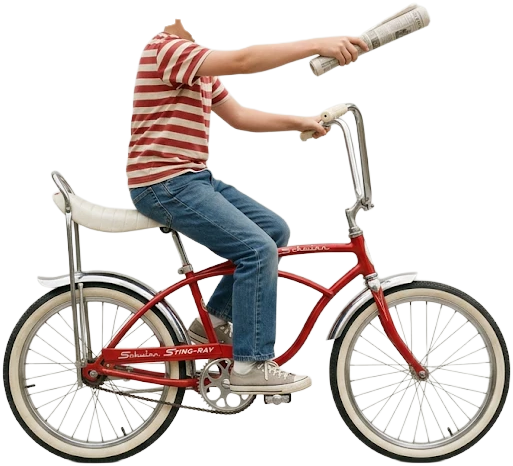
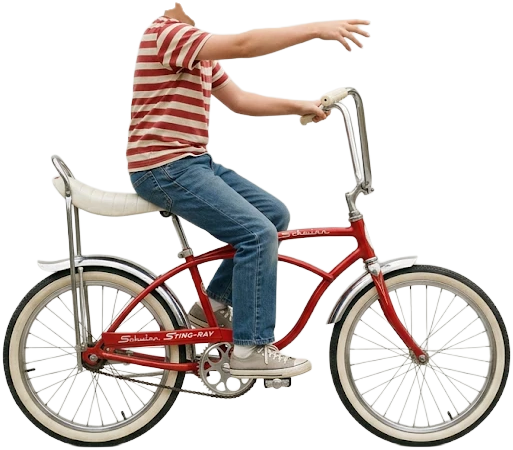
Put Bill on the level cards; add photo mailboxes and an empty-hand throw
- Level select cards now show Bill assembled the way the game builds
  him: his head on the paperboy, and leaning out of the Bug
- Mailboxes are photo cutouts on wooden posts, silver and red, each with
  a waiting state and a delivered state (door open, paper in, flag up).
  The photo's short posts are stretched along the grain to stand the box
  at throwing height
- The throwing frame is the new one with his hand open and empty, so the
  paper in the air is the only one
- Prompt sheet: level 1's images are complete

Claude-Session: https://claude.ai/code/session_019b7mfLR7ticr216Qk7ssWT

Changed region(s): [[0.0, 0.0, 0.9981, 0.9956]]

diff --git a/src/scenes/LevelSelectScene.ts b/src/scenes/LevelSelectScene.ts
@@ -1,9 +1,10 @@
 import Phaser from 'phaser';
-import { H, INK, MAX_W, TEX, view } from '../config';
+import { H, HEAD_SRC_H, INK, MAX_W, TEX, view } from '../config';
 import { ART, Ctx, img } from '../art/sticker';
 import { cutText, fillPaper, glued, makePaperArt, tapePath, textWidth } from '../art/paper';
 import { sound } from '../audio/sound';
-import { LEVELS, LevelDef } from '../data/levels';
+import { LEVELS, LevelDef, Theme } from '../data/levels';
+import { RIGS } from '../objects/Bill';
 import { loadStars } from '../data/progress';
 import { MARKER, written } from '../ui/text';
 
@@ -88,6 +89,32 @@ export class LevelSelectScene extends Phaser.Scene {
     c.drawImage(src, x - w / 2, bottom - h, w, h);
   }
 
+  /** Draw a piece of art on a card with its anchor at (x, y), at `k` card pixels per game pixel. */
+  private place(c: Ctx, key: string, x: number, y: number, k: number): void {
+    if (!this.textures.exists(key)) return;
+    const a = ART[key];
+    const src = this.textures.get(key).getSourceImage() as HTMLCanvasElement;
+    c.drawImage(src, x - (a.pad + a.ax) * k, y - (a.pad + a.ay) * k, (a.w + a.pad * 2) * k, (a.h + a.pad * 2) * k);
+  }
+
+  /** Bill, put together the way the game does it: his body frame, his head on
+   *  its neck, and his ride in front. (x, groundY) is where his wheels touch the road. */
+  private placeBill(c: Ctx, theme: Theme, face: string, x: number, groundY: number, k: number): void {
+    const rig = RIGS[theme];
+    const ground = rig.ride?.baseY ?? rig.at[1];
+    const X = (dx: number) => x + dx * k;
+    const Y = (dy: number) => groundY + (dy - ground) * k;
+    this.place(c, rig.frames.rest, X(rig.at[0]), Y(rig.at[1]), k);
+    if (this.textures.exists(face)) {
+      const src = this.textures.get(face).getSourceImage() as HTMLCanvasElement;
+      const s = (rig.headH / HEAD_SRC_H) * k;
+      const cx = X(rig.at[0] + rig.chin.rest[0]);
+      const cy = Y(rig.at[1] + rig.chin.rest[1]) - rig.headH * 0.415 * k;
+      c.drawImage(src, cx - (src.width * s) / 2, cy - (src.height * s) / 2, src.width * s, src.height * s);
+    }
+    if (rig.ride) this.place(c, rig.ride.key, X(0), Y(rig.ride.baseY), k);
+  }
+
   private buildCard(level: LevelDef): void {
     makePaperArt(this, `card_${level.id}`, CARD_W, CARD_H, (c) => {
       // a snapshot: a white print with a picture and a caption
@@ -118,9 +145,9 @@ export class LevelSelectScene extends Phaser.Scene {
           for (let x = px; x < px + pw; x += fw) c.drawImage(src, x, road - fh, fw, fh);
         }
         c.beginPath(); c.rect(px, road, pw, ph); fillPaper(c, 'grey');
-        this.stamp(c, 'mailbox0', px + 52, road - 2, 40);
-        this.stamp(c, 'mailbox1', px + 224, road - 2, 40);
-        this.stamp(c, 'kid_rest', px + 136, py + ph + 2, 150);
+        this.place(c, 'mailbox0_hit', px + 44, road + 3, 0.7);
+        this.place(c, 'mailbox1', px + 232, road + 3, 0.7);
+        this.placeBill(c, 'street', 'bill-grin', px + 140, py + ph - 3, 0.52);
       } else {
         if (this.textures.exists('postcard')) {
           const src = this.textures.get('postcard').getSourceImage() as HTMLCanvasElement;
@@ -129,7 +156,7 @@ export class LevelSelectScene extends Phaser.Scene {
         c.beginPath(); c.rect(px, py + 122, pw, ph); fillPaper(c, 'grey');
         this.stamp(c, 'sedan_red', px + 182, py + 150, 150);
         this.stamp(c, 'head1', px + 150, py + 128, 44);
-        this.stamp(c, 'bug', px + 96, py + ph + 4, 136);
+        this.placeBill(c, 'highway', 'bill-sideeye', px + 92, py + ph - 1, 0.47);
       }
       c.restore();
 

diff --git a/src/art/photos.ts b/src/art/photos.ts
@@ -61,6 +61,8 @@ const HEADS: HeadFit[] = [
 /** Bill's body is drawn small under his big photo head (design pixels per image pixel). */
 const BODY_SCALE = 0.58;
 const KID_SCALE = 0.5;
+/** Puts the middle of a mailbox 68 pixels above the kerb (MAILBOX_UP in NoodleNeck.ts). */
+const MAILBOX_SCALE = 0.352;
 
 const WORDS = ['bonk', 'whack', 'thwack', 'pow', 'bop', 'perfect'];
 
@@ -82,10 +84,16 @@ const PIECES: Piece[] = [
   // are pinned on the ground under it (anchors from tools/make_cutouts.py).
   { key: 'kid_rest', file: 'kid-rest.png', scale: KID_SCALE, anchor: [0.499, 0.993] },
   { key: 'kid_windup', file: 'kid-windup.png', scale: KID_SCALE, anchor: [0.499, 0.994] },
-  { key: 'kid_swing', file: 'kid-swing.png', scale: KID_SCALE, anchor: [0.499, 0.994] },
+  { key: 'kid_swing', file: 'kid-swing.png', scale: KID_SCALE, anchor: [0.499, 0.993] },
   { key: 'kid_duck', file: 'kid-duck.png', scale: KID_SCALE, anchor: [0.499, 0.993] },
   { key: 'paper_roll', file: 'paper-roll.png', w: 30, border: 1.4 },
-  // the street: the mailman (standing on the same spot in both photos) and the tree to duck
+  // the street: mailboxes on posts, waiting and with a paper delivered, each
+  // pinned where its post meets the ground (anchors from tools/make_cutouts.py)
+  { key: 'mailbox0', file: 'mailbox-silver.png', scale: MAILBOX_SCALE, border: 2, anchor: [0.519, 0.972] },
+  { key: 'mailbox0_hit', file: 'mailbox-silver-hit.png', scale: MAILBOX_SCALE, border: 2, anchor: [0.603, 0.973] },
+  { key: 'mailbox1', file: 'mailbox-red.png', scale: MAILBOX_SCALE, border: 2, anchor: [0.516, 0.968] },
+  { key: 'mailbox1_hit', file: 'mailbox-red-hit.png', scale: MAILBOX_SCALE, border: 2, anchor: [0.601, 0.97] },
+  // the mailman (standing on the same spot in both photos) and the tree to duck
   { key: 'mailman', file: 'mailman.png', h: 138, border: 2, anchor: [0.557, 0.985] },
   { key: 'mailman_mad', file: 'mailman-mad.png', h: 136, border: 2, anchor: [0.49, 0.985] },
   { key: 'branch', file: 'tree.png', h: 264, border: 2, anchor: [0.497, 0.985] },

diff --git a/src/scenes/GameScene.ts b/src/scenes/GameScene.ts
@@ -530,7 +530,7 @@ export class GameScene extends Phaser.Scene {
 
   /** The open end of a mailbox, where the paper goes in. */
   private doorOf(neck: NoodleNeck): Point {
-    return { x: neck.headX - 16, y: neck.headY };
+    return { x: neck.headX - 22, y: neck.headY };
   }
 
   /** Bill lets go of a paper. Whatever is in the ring gets it: a mailbox, or

diff --git a/src/objects/Bill.ts b/src/objects/Bill.ts
@@ -80,7 +80,7 @@ export const RIGS: Record<Theme, BillRig> = {
     duckHeadTilt: 0.5,
     duckDepth: 0,
     sweetDX: 230,
-    hand: [74, -216],
+    hand: [56, -208],
     dust: [-128, STREET.bikeBase - 4],
   },
 };

diff --git a/tools/make_cutouts.py b/tools/make_cutouts.py
@@ -292,7 +292,7 @@ def kid():
     frame's ground anchor (as a fraction of the saved image) and where the
     chin was, in source pixels from that anchor."""
     ground = (512, 548)
-    for name, src in (("rest", "T1-kid-rest"), ("windup", "T2-kid-windup"), ("swing", "T3-kid-swing"), ("duck", "T4-kid-duck")):
+    for name, src in (("rest", "T1-kid-rest"), ("windup", "T2-kid-windup"), ("swing", "T3b-kid-throw"), ("duck", "T4-kid-duck")):
         cut = load(f"{src}-cutout.png")
         m = load(f"{src}-headmask.png")
         head = ((m[..., 3] if m[..., 3].std() > 0.01 else m[..., :3].mean(axis=2)) > 0.5).astype(np.uint8)
@@ -312,8 +312,8 @@ def kid():
         print(f"  kid-{name}: anchor ({(ground[0] - x0) / (x1 - x0):.3f}, {(ground[1] - y0) / (y1 - y0):.3f}),"
               f" chin {chin[0] - ground[0]:+.0f}, {chin[1] - ground[1]:+.0f} px from it")
 
-    # A rolled-up newspaper to throw: the free end of the one in his outstretched
-    # hand, turned level and mirrored to make a whole roll.
+    # A rolled-up newspaper to throw: the free end of the one he holds out in the
+    # first version of the throwing frame, turned level and mirrored to make a whole roll.
     cut = load("T3-kid-swing-cutout.png")
     piece = cut[78:140, 596:682]
     h, w = piece.shape[:2]
@@ -392,6 +392,26 @@ def concrete():
     path = os.path.join(OUT, "concrete.jpg")
     Image.fromarray((np.clip(rgb, 0, 1) * 255).astype(np.uint8), "RGB").save(path, quality=88)
     print("concrete.jpg", (rgb.shape[1], rgb.shape[0]), os.path.getsize(path), "bytes")
+
+
+def mailboxes():
+    """Mailboxes on posts: silver and red, each waiting and with a paper
+    delivered. The posts in the photo are short, so the bottom of each is
+    stretched (along the grain) to stand the box at throwing height. Prints
+    where each post meets the ground, and how high the box sits above it."""
+    sheet = sorted(pieces(load("U-mailboxes-strip-cutout.png"), 3000), key=lambda p: p[0])
+    for name, (_, _, piece) in zip(("silver", "silver-hit", "red", "red-hit"), sheet):
+        post = cv2.resize(piece[-38:], (piece.shape[1], 110), interpolation=cv2.INTER_LINEAR)
+        tall = np.concatenate([piece[:-38], post], axis=0)
+        save(f"mailbox-{name}.png", tall)
+        solid = tall[..., 3] > 0.5
+        base_y = np.where(solid.any(axis=1))[0].max() + 1
+        base = np.where(solid[base_y - 12:base_y].any(axis=0))[0]
+        line = f"  mailbox-{name}: post base at ({(base.min() + base.max()) / 2 / tall.shape[1]:.3f}, {base_y / tall.shape[0]:.3f})"
+        if not name.endswith("hit"):
+            box = np.where(solid.sum(axis=1) > 100)[0]
+            line += f", box centre {base_y - (box.min() + box.max()) / 2:.0f}px above it, box {solid.sum(axis=1).max()}px wide"
+        print(line)
 
 
 def asphalt():
@@ -538,6 +558,7 @@ if __name__ == "__main__":
     bill()
     kid()
     mailman()
+    mailboxes()
     tree()
     fence()
     houses()

diff --git a/docs/art-prompts.md b/docs/art-prompts.md
@@ -31,32 +31,16 @@ these images. The tarmac is a public-domain photo texture (`art-src/library`).
 ## Level 1, Paper Route
 
 Bill the paperboy rides his Stingray down a 1950s street tossing papers into
-mailboxes. In the game: T1 to T4 (the boy on the bike: riding, winding up,
-throwing, ducking; the flying newspaper is cut from T3), V (the mailman),
-W (the tree), X (the houses) and Y (the picket fence). The pavement is the
-public-domain tarmac photo, bleached to concrete.
+mailboxes. Every image for this level is in the game: T1, T2, T3b and T4 (the
+boy on the bike: riding, winding up, throwing with an empty hand, ducking),
+U (mailboxes on posts, waiting and delivered), V (the mailman), W (the tree),
+X (the houses) and Y (the picket fence). The flying newspaper is cut from T3,
+the first version of the throwing frame. The pavement is the public-domain
+tarmac photo, bleached to concrete.
 
-Still to come, replacing the last cut-paper stand-ins:
-
-### U. Mailboxes on posts
-
-```text
-Four separate photographs in a row with clear gaps between them, on a plain flat light-grey background. Each is a classic American curbside mailbox mounted on a short square wooden post, seen in exact side view with its door end on the left. The whole post is in frame down to its base.
-1. A galvanized silver mailbox, door shut, red flag down.
-2. The same silver mailbox with its door open and a rolled-up newspaper sticking out of it, red flag up.
-3. A red painted mailbox, door shut, yellow flag down.
-4. The same red mailbox with its door open and a rolled-up newspaper sticking out of it, yellow flag up.
-All four the same size, with identical posts. Soft even daylight, slightly faded 1950s Kodachrome colour. No text or numbers on the mailboxes, no ground, no shadows, no borders. Wide 16:9 image.
-```
-
-### T3b. Throwing, hand empty
-
-In the throwing frame Bill is still holding a paper while another one flies.
-Send this as an edit of T3 for a cleaner release.
-
-```text
-Edit this image. Keep the bicycle, the boy, his clothes, his pose, the framing, the lighting and the background exactly the same. Remove the rolled-up newspaper from his outstretched right hand: the hand is now open and empty, fingers spread, as if he has just let go of it.
-```
+Note for sheets of several objects: ask for one plain backdrop behind all of
+them. Objects each sitting on their own card or panel have to be cut apart by
+hand first, because background removal keeps the cards.
 
 ## Later
 
